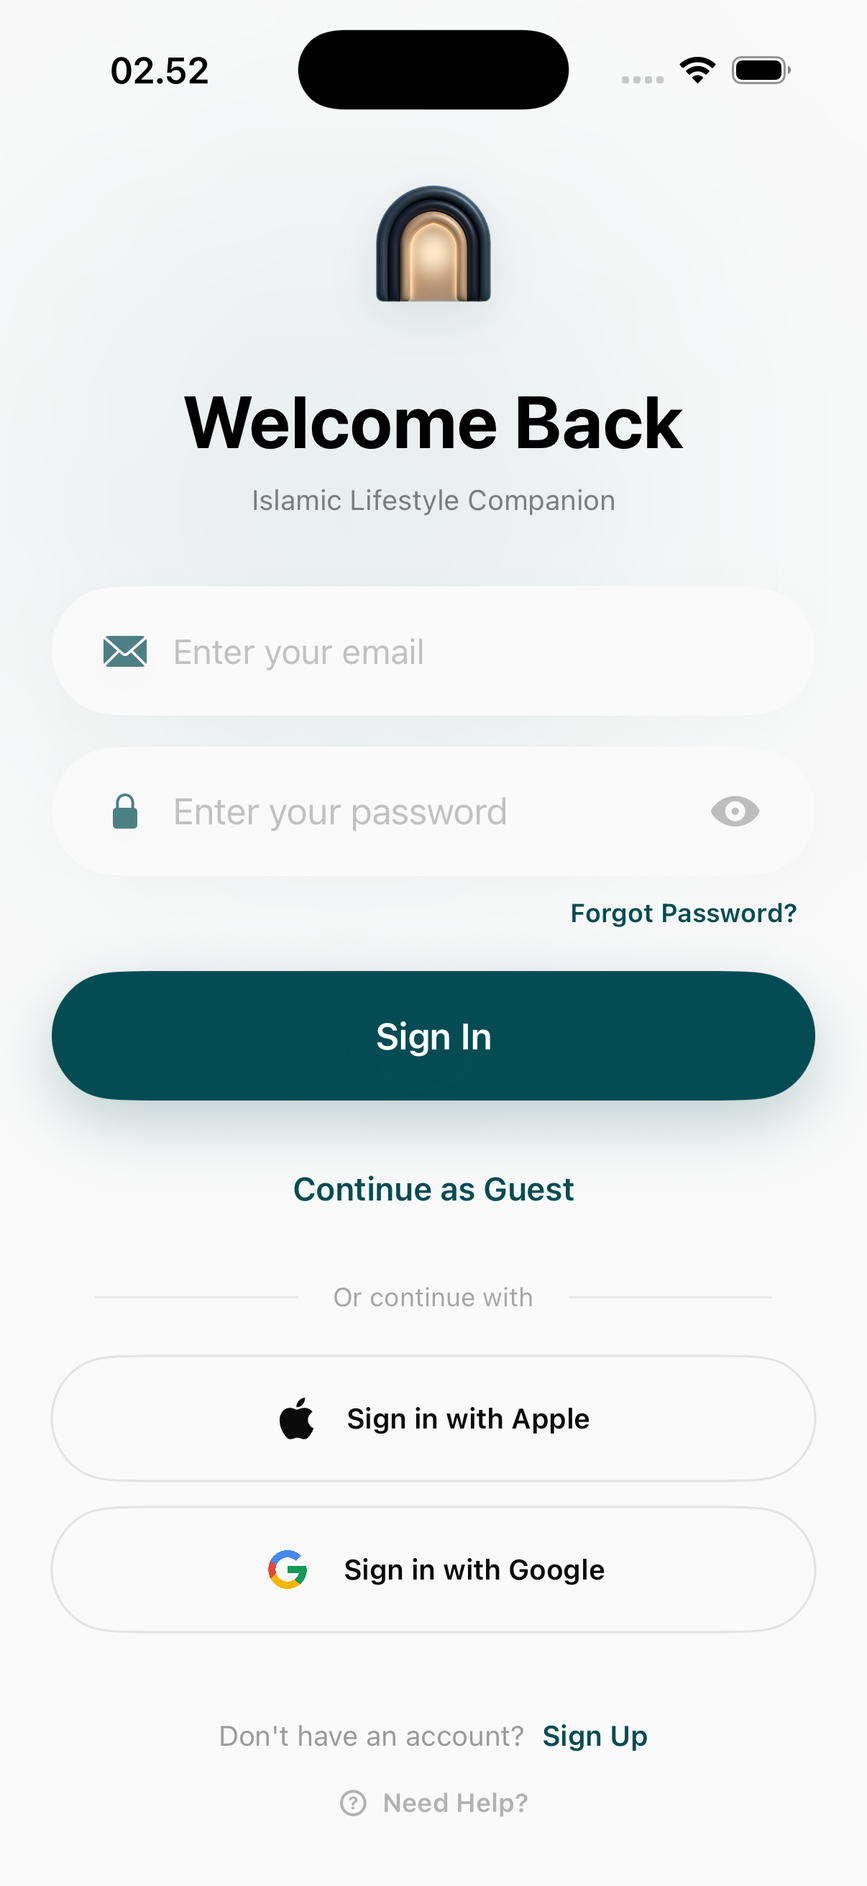
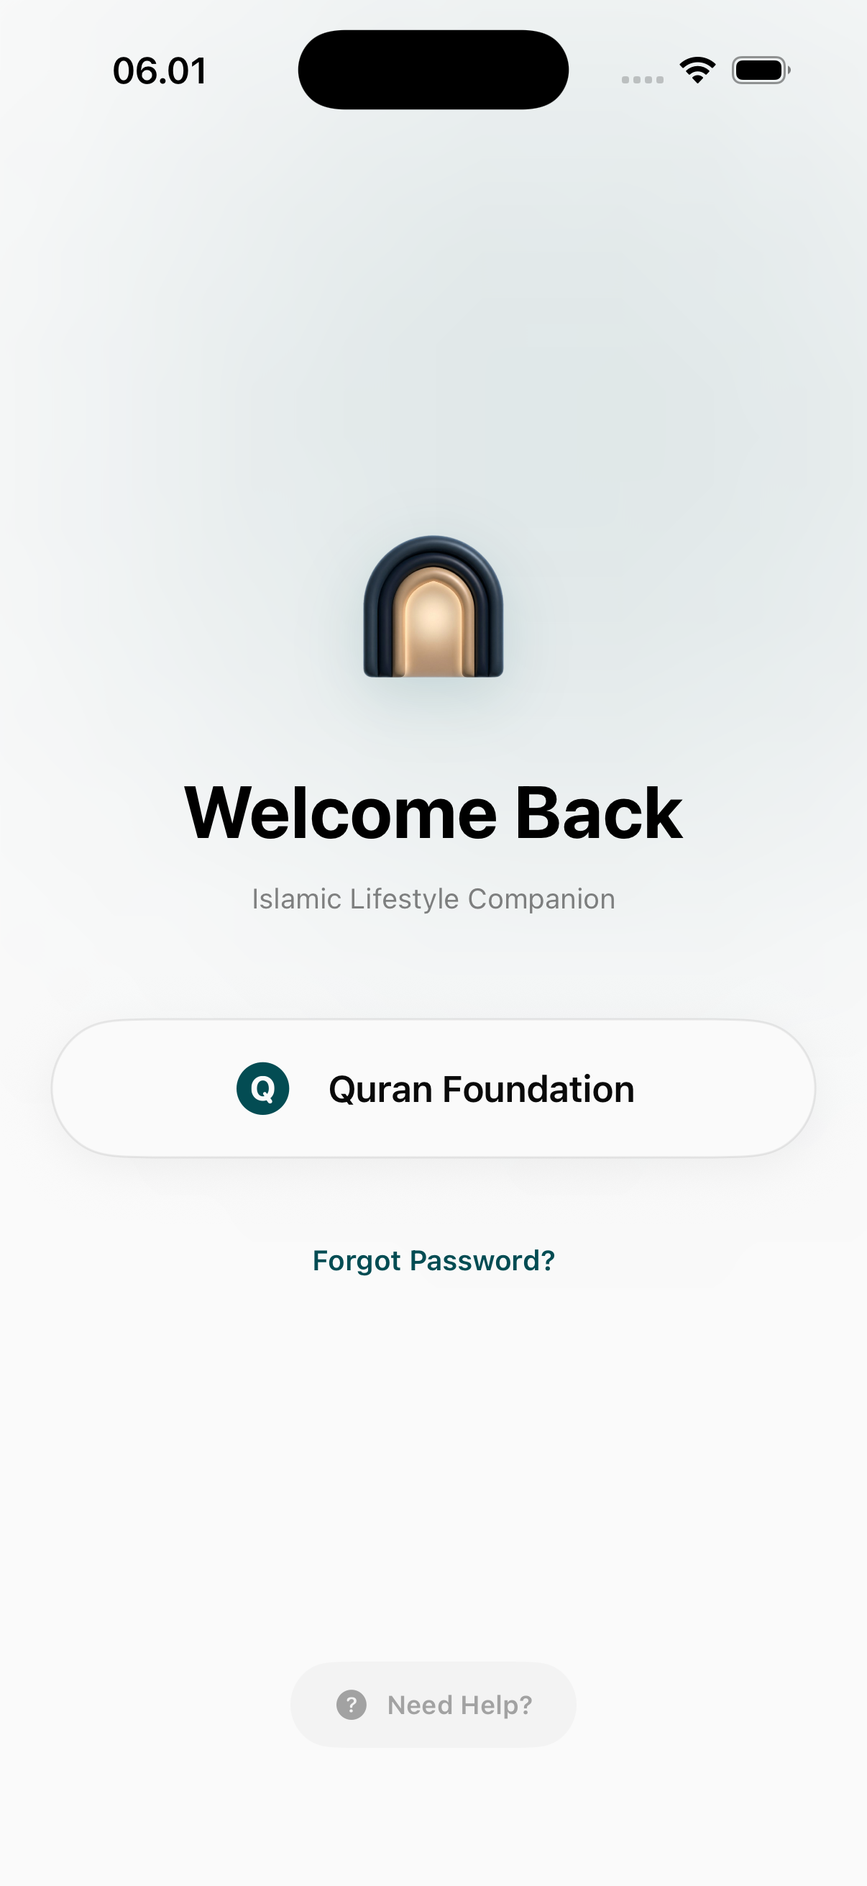
chore: update screenshot documentation with new assets and remove deprecated files

diff --git a/api/external/quran-foundation.md b/api/external/quran-foundation.md
@@ -1,95 +1,78 @@
-# Quran Foundation API (v4) Integration
+# Quran Foundation Integration Specification
 
-This document details the external API endpoints provided by the [Quran Foundation](https://quran.foundation/docs) and used within the Hira application to source Quranic text, translations, and audio assets.
-
-**Base URL**: `https://apis.quran.foundation/content/api/v4`
+This document details the active integration between Hira and the Quran Foundation ecosystem, focusing exclusively on the services and endpoints utilized in the core application.
 
 ---
 
-## 1. Core Quran Content
+## 1. Network Architecture
 
-### List All Chapters (Surahs)
-Fetches the metadata for all 114 Surahs.
-- **Endpoint**: `GET /chapters`
-- **Used in**: [`SurahListView.swift`](https://github.com/teamhira/hira-swiftui/blob/quran-foundation/Apps/iOSApp/Features/Quran/Views/SurahListView.swift)
-- **Query Parameters**:
-  - `language` (string): ISO code (e.g., `en`, `id`) to localize chapter names.
+Hira routes requests through two secondary base URLs managed by [`FoundationClient`](../../Hira/Shared/Data/Network/FoundationClient.swift):
 
-### Chapter Information
-Retrieves historical background and revelation context.
-- **Endpoint**: `GET /chapters/{chapter_id}/info`
-- **Used in**: [`SurahInfoSheet.swift`](https://github.com/teamhira/hira-swiftui/blob/quran-foundation/Apps/iOSApp/Features/Quran/Views/Subviews/SurahInfoSheet.swift)
-- **Query Parameters**:
-  - `language` (string): Localization for the info text.
+| Service | Base URL | Usage |
+| :--- | :--- | :--- |
+| **Content v4** | `https://apis.quran.foundation/content/api/v4` | Public scriptures, audio manifest, and resource lists. |
+| **User Data v1** | `https://apis.quran.foundation/auth` | Synchronized bookmarks, activity, and progress. |
 
-### Verses by Chapter
-Fetches verses for a specific chapter. Used for the primary reading list.
-- **Endpoint**: `GET /verses/by_chapter/{chapter_id}`
-- **Used in**: [`QuranAyahListView.swift`](https://github.com/teamhira/hira-swiftui/blob/quran-foundation/Apps/iOSApp/Features/Quran/Views/Subviews/QuranAyahListView.swift)
-- **Query Parameters**:
-  - `language` (string): General content language.
-  - `words` (boolean): `true` to include word-by-word data (required for Tajweed and Word-Audio).
-  - `translations` (int array): IDs of the translations to include (e.g., `85` for Abdel Haleem).
-  - `audio` (int): ID of the reciter for verse-level audio association.
-  - `page` (int): Page number (defaults to 1).
-  - `per_page` (int): Number of verses (Hira typically uses `300` to fetch whole chapters).
-
-### Verses by Page (Mushaf Mode)
-Fetches verses that appear on a specific physical page of the Madinah Mushaf.
-- **Endpoint**: `GET /verses/by_page/{page_number}`
-- **Used in**: [`QuranMushafView.swift`](https://github.com/teamhira/hira-swiftui/blob/quran-foundation/Apps/iOSApp/Features/Quran/Views/Subviews/QuranMushafView.swift)
-- **Query Parameters**: Same as *Verses by Chapter*.
+### Global Headers
+All authenticated requests (User Data v1) automatically include:
+- `Authorization: Bearer [TOKEN]`
+- `x-auth-token: [TOKEN]`
+- `x-client-id: [CLIENT_ID]`
+- `x-timezone: [TIMEZONE]` (Required for correct activity-day day calculation)
 
 ---
 
-## 2. Structural Navigation
+## 2. API Reference (Core Content v4)
 
-### List All Juzs
-Provides the mapping of the 30 Juz divisions.
-- **Endpoint**: `GET /juzs`
-- **Used in**: [`QuranJuzListView.swift`](https://github.com/teamhira/hira-swiftui/blob/quran-foundation/Apps/iOSApp/Features/Quran/Views/QuranJuzListView.swift)
+### 📖 Reading & Resources
+| Endpoint | Method | Description | Key Parameters |
+| :--- | :--- | :--- | :--- |
+| `/chapters` | `GET` | Fetch all 114 Surahs. | `language` |
+| `/chapters/{id}/info` | `GET` | Historical context of a Surah. | `language` |
+| `/verses/by_chapter/{id}` | `GET` | Main reading content for a Surah. | `words=true`, `translations`, `audio`, `per_page=300` |
+| `/verses/by_page/{page}` | `GET` | Verses appearing on a specific Mushaf page. | `words=true`, `translations` |
+| `/juzs` | `GET` | Metadata for the 30 structural divisions. | N/A |
+| `/resources/recitations` | `GET` | List of available reciters. | `language` |
+| `/resources/translations` | `GET` | List of available translation resources. | `language` |
+| `/resources/tafsirs` | `GET` | List of available tafsir resources. | `language` |
 
----
-
-## 3. Resource & Settings Discovery
-
-### Available Languages
-Populates the language selection interface for documentation and UI.
-- **Endpoint**: `GET /resources/languages`
-- **Used in**: [`QuranLanguageSelector.swift`](https://github.com/teamhira/hira-swiftui/blob/quran-foundation/Apps/iOSApp/Features/Quran/Views/Subviews/QuranLanguageSelector.swift)
-
-### Translation Resources
-Lists available translations for a given language.
-- **Endpoint**: `GET /resources/translations`
-- **Query Parameters**:
-  - `language` (string): Filter translations by language.
-
-### Tafsir Resources
-Lists available exegesis resources.
-- **Endpoint**: `GET /resources/tafsirs`
-- **Query Parameters**:
-  - `language` (string): Filter tafsirs by language.
-
-### Recitation Resources
-Lists available world-renowned reciters.
-- **Endpoint**: `GET /resources/recitations`
-- **Used in**: [`QuranResourceSelector.swift`](https://github.com/teamhira/hira-swiftui/blob/quran-foundation/Apps/iOSApp/Features/Quran/Views/Subviews/QuranResourceSelector.swift)
+### 🎵 Audio & Timestamps
+| Endpoint | Method | Description | Key Parameters |
+| :--- | :--- | :--- | :--- |
+| `/chapters/{id}/audio_files` | `GET` | Audio manifest for a specific surah. | `recitation_id`, `segments=true` (for timestamps) |
 
 ---
 
-## 4. Audio & Precision Timing
+## 3. API Reference (User Data v1)
 
-### Chapter Audio Files
-Retrieves audio manifest with precise word-level and verse-level timestamps.
-- **Endpoint**: `GET /chapters/{chapter_id}/audio_files`
-- **Used in**: [`QuranViewModel.swift`](https://github.com/teamhira/hira-swiftui/blob/quran-foundation/Apps/iOSApp/Features/Quran/QuranViewModel.swift) (Auto-scroll/Teleprompter logic).
-- **Query Parameters**:
-  - `recitation_id` (int): The selected reciter's ID.
-  - `segments` (boolean): `true` to include word-level timing (essential for word-level highlighting).
+### 🏷 Bookmarks & Last Read
+| Endpoint | Method | Description | Payload / Params |
+| :--- | :--- | :--- | :--- |
+| `/v1/bookmarks` | `GET` | Fetch user's synchronized bookmarks. | `mushafId`, `first`, `after` |
+| `/v1/bookmarks` | `POST` | Create a bookmark or "Last Read" position. | `type`, `key`, `verseNumber`, `isReading`, `mushafId` |
+| `/v1/bookmarks/{id}` | `DELETE` | Permanently remove a specific bookmark. | Path Variable: `id` |
+| `/v1/bookmarks/ayahs-range`| `GET` | Check bookmark status for a range of ayahs. | `chapterNumber`, `rangeStartAyahNumber`, `rangeEndAyahNumber` |
+
+### ⚡ Tracking & Progress
+| Endpoint | Method | Description | Payload / Params |
+| :--- | :--- | :--- | :--- |
+| `/v1/reading-sessions`| `GET` | Fetch user reading session history. | `first`, `after` |
+| `/v1/reading-sessions`| `POST` | Log active reading presence. | `chapterNumber`, `verseNumber` |
+| `/v1/activity-days` | `GET` | Fetch historical activity and heat-map data. | `from`, `to`, `type="QURAN"` |
+| `/v1/activity-days` | `POST` | Post incremental reading time and ranges. | `type`, `seconds`, `ranges` (JSON Array), `mushafId`, `date` |
 
 ---
 
-## Summary of Usage Logic
-1. **Initial Load**: App calls `/chapters` to build the navigation list.
-2. **Reading View**: Calls `/verses/by_chapter` or `/verses/by_page` with `words=true` to enable Tajweed rendering.
-3. **Teleprompter**: Calls `/audio_files?segments=true` to calculate scroll duration per verse based on `timestamp_from` and `timestamp_to`.
+## 4. Technical Implementation Constants
+
+- **Range Limit**: Individual `ayahs-range` checks must not exceed **30 ayahs**. Repository handles chunking automatically.
+- **Reading Session Debounce**: Tracking begins after **15 seconds**; updates are posted with a **2 second** debounce.
+- **Activity Persistence**: `ranges` post payload must be a **JSON Array of Strings** (e.g., `["1:1-1:7"]`).
+- **Timezone Header**: `x-timezone` is mandatory for `/v1/activity-days` to maintain accurate streaks.
+
+---
+
+## Reference Map
+- **Networking Core**: [`FoundationClient.swift`](../../Hira/Shared/Data/Network/FoundationClient.swift)
+- **Endpoints Logic**: [`FoundationEndpoints.swift`](../../Hira/Shared/Core/Constants/FoundationEndpoints.swift)
+- **ViewModel Orchestration**: [`QuranViewModel.swift`](../../Hira/Apps/iOSApp/Features/Quran/QuranViewModel.swift)

diff --git a/screenshot/README.md b/screenshot/README.md
@@ -7,7 +7,7 @@ This directory contains a comprehensive collection of screenshots and UI/UX docu
 ## 🕋 Core Spiritual Features
 | Feature | Screenshot Inventory (Click to View) | Documentation |
 | :--- | :--- | :--- |
-| **Quran** | [`quran-surah-list.png`](quran/quran-surah-list.png), [`quran-search.png`](quran/quran-search.png), [`quran-mushaf.png`](quran/quran-surah-detail-mushaf-view.png), [`quran-audio.png`](quran/quran-surah-detail-audio.png), [`quran-juz.png`](quran/quran-juz.png), [`quran-topic.png`](quran/quran-topic.png) | [View Details](quran/README.md) |
+| **Quran** | [`quran-surah-list.png`](quran/quran-surah-list.png), [`quran-search.png`](quran/quran-search.png), [`quran-mushaf.png`](quran/quran-surah-detail-mushaf-view.png), [`quran-audio.png`](quran/quran-surah-detail-audio.png), [`quran-juz-list.png`](quran/quran-juz-list.png), [`quran-topic.png`](quran/quran-topic.png) | [View Details](quran/README.md) |
 | **Prayer Times** | [`prayer-times.png`](prayer-times/prayer-times.png) | [View Details](prayer-times/README.md) |
 | **Qibla** | [`qibla.png`](qibla/qibla.png), [`qibla-map-extend.png`](qibla/qibla-map-extend.png) | [View Details](qibla/README.md) |
 | **Dua** | [`dua.png`](dua/dua.png), [`dua-list.png`](dua/dua-list.png), [`dua-detail.png`](dua/dua-detail.png) | [View Details](dua/README.md) |
@@ -26,8 +26,8 @@ This directory contains a comprehensive collection of screenshots and UI/UX docu
 ## 🤝 Community & Utility
 | Feature | Screenshot Inventory (Click to View) | Documentation |
 | :--- | :--- | :--- |
-| **Mosques** | [`mosques-1.png`](mosques/mosques-1.png), [`mosques-2.png`](mosques/mosques-2.png) | [View Details](mosques/README.md) |
-| **Halal** | [`halal-food.png`](halal/halal-food.png), [`halal-food-barcode.png`](halal/halal-food-barcode.png), [`halal-place.png`](halal/halal-place.png) | [View Details](halal/README.md) |
+| **Mosques** | [`mosques.png`](mosques/mosques.png), [`mosques-detail.png`](mosques/mosques-detail.png) | [View Details](mosques/README.md) |
+| **Halal** | [`halal-food.png`](halal/halal-food.png), [`halal-food-bardcode.png`](halal/halal-food-bardcode.png), [`halal-place.png`](halal/halal-place.png) | [View Details](halal/README.md) |
 | **Zakat** | [`zakat-fitrah.png`](zakat/zakat-fitrah.png), [`zakat-profession.png`](zakat/zakat-profession.png), [`zakat-gold-silver.png`](zakat/zakat-gold-silver.png), [`zakat-savings.png`](zakat/zakat-savings.png) | [View Details](zakat/README.md) |
 | **Sadaqah** | [`sadaqah.png`](sadaqah/sadaqah.png), [`sadaqah-campaign.png`](sadaqah/sadaqah-campaign.png), [`sadaqah-physical-1.png`](sadaqah/sadaqah-physical-1.png) | [View Details](sadaqah/README.md) |
 | **Charity** | [`charity-1.png`](charity/charity-1.png), [`charity-2.png`](charity/charity-2.png), [`charity-search.png`](charity/charity-search.png) | [View Details](charity/README.md) |
@@ -47,7 +47,7 @@ This directory contains a comprehensive collection of screenshots and UI/UX docu
 | :--- | :--- | :--- |
 | **Onboarding** | [`onboarding-landing.png`](onboarding/onboarding-landing.png), [`onboarding-quran.png`](onboarding/onboarding-quran.png), [`onboarding-final.png`](onboarding/onboarding-final.png) | [View Details](onboarding/README.md) |
 | **Splash** | [`splash.png`](splash/splash.png), [`launch.png`](splash/launch.png) | [View Details](splash/README.md) |
-| **Auth** | [`login.png`](auth/login.png), [`register.png`](auth/register.png), [`forgot-password.png`](auth/forgot-password.png) | [View Details](auth/README.md) |
+| **Auth** | [`login.png`](auth/login.png) | [View Details](auth/README.md) |
 | **Profile** | [`profile.png`](profile/profile.png), [`edit-profile.png`](profile/edit-profile.png), [`app-theme.png`](profile/app-theme.png) | [View Details](profile/README.md) |
 | **Calendar** | [`calendar.png`](calendar/calendar.png) | [View Details](calendar/README.md) |
 
@@ -56,11 +56,14 @@ This directory contains a comprehensive collection of screenshots and UI/UX docu
 ## 📂 Exhaustive File List
 | Feature | Complete Gallery (Internal Paths) |
 | :--- | :--- |
-| **Quran** | [`quran-surah-detail-mushaf-view.png`](quran/quran-surah-detail-mushaf-view.png), [`quran-juz-surah-list.png`](quran/quran-juz-surah-list.png), [`quran-surah-list.png`](quran/quran-surah-list.png), [`quran-surah-detail-audio.png`](quran/quran-surah-detail-audio.png), [`quran-juz.png`](quran/quran-juz.png), [`quran-topic.png`](quran/quran-topic.png), [`quran-surah-detail.png`](quran/quran-surah-detail.png), [`quran-history.png`](quran/quran-history.png), [`quran-bookmark.png`](quran/quran-bookmark.png), [`quran-daily.png`](quran/quran-daily.png), [`quran-search.png`](quran/quran-search.png), [`quran-surah-information.png`](quran/quran-surah-information.png), [`quran-surah-detail-ayah-options.png`](quran/quran-surah-detail-ayah-options.png), [`quran-surah-detail-audio-expand.png`](quran/quran-surah-detail-audio-expand.png) |
+| **Quran** | [`quran-surah-detail-mushaf-view.png`](quran/quran-surah-detail-mushaf-view.png), [`quran-juz-surah-list.png`](quran/quran-juz-surah-list.png), [`quran-surah-list.png`](quran/quran-surah-list.png), [`quran-surah-detail-audio.png`](quran/quran-surah-detail-audio.png), [`quran-juz-list.png`](quran/quran-juz-list.png), [`quran-topic.png`](quran/quran-topic.png), [`quran-surah-detail.png`](quran/quran-surah-detail.png), [`quran-history-list.png`](quran/quran-history-list.png), [`quran-bookmark-list.png`](quran/quran-bookmark-list.png), [`quran-daily.png`](quran/quran-daily.png), [`quran-search.png`](quran/quran-search.png), [`quran-surah-information.png`](quran/quran-surah-information.png), [`quran-surah-detail-ayah-options.png`](quran/quran-surah-detail-ayah-options.png), [`quran-surah-detail-audio-expand.png`](quran/quran-surah-detail-audio-expand.png) |
+| **Mosques** | [`mosques.png`](mosques/mosques.png), [`mosques-detail.png`](mosques/mosques-detail.png), [`mosques-expand.png`](mosques/mosques-expand.png) |
+| **Halal** | [`halal-food.png`](halal/halal-food.png), [`halal-food-detail.png`](halal/halal-food-detail.png), [`halal-food-bardcode.png`](halal/halal-food-bardcode.png), [`halal-food-ar.png`](halal/halal-food-ar.png), [`halal-place.png`](halal/halal-place.png), [`halal-place-detail.png`](halal/halal-place-detail.png) |
 | **Hijrah** | [`hijrah-dashboard-1.png`](hijrah/hijrah-dashboard-1.png), [`hijrah-dashboard-2.png`](hijrah/hijrah-dashboard-2.png), [`hijrah-dashboard-pemula.png`](hijrah/hijrah-dashboard-pemula.png), [`hijrah-mission-quiz.png`](hijrah/hijrah-mission-quiz.png), [`hijrah-mission-video.png`](hijrah/hijrah-mission-video.png), [`hijrah-mission-knowledge.png`](hijrah/hijrah-mission-knowledge.png), [`hijrah-mission-timer-pemula.png`](hijrah/hijrah-mission-timer-pemula.png), [`hijrah-achievement-list.png`](hijrah/hijrah-achievement-list.png), [`hijrah-achievement-detail-1.png`](hijrah/hijrah-achievement-detail-1.png), [`hijrah-step-1.png`](hijrah/hijrah-step-1.png), [`hijrah-step-2.png`](hijrah/hijrah-step-2.png), [`hijrah-step-3.png`](hijrah/hijrah-step-3.png), [`hijrah-step-4.png`](hijrah/hijrah-step-4.png) |
 | **Zakat** | [`zakat-1.png`](zakat/zakat-1.png), [`zakat-2.png`](zakat/zakat-2.png), [`zakat-fitrah.png`](zakat/zakat-fitrah.png), [`zakat-profession.png`](zakat/zakat-profession.png), [`zakat-gold-silver.png`](zakat/zakat-gold-silver.png), [`zakat-savings.png`](zakat/zakat-savings.png), [`zakat-trade.png`](zakat/zakat-trade.png), [`zakat-agriculture.png`](zakat/zakat-agriculture.png), [`zakat-livestock.png`](zakat/zakat-livestock.png), [`zakat-mining-rikaz.png`](zakat/zakat-mining-rikaz.png), [`zakat-information-1.png`](zakat/zakat-information-1.png), [`zakat-information-2.png`](zakat/zakat-information-2.png) |
 | **Tasbih** | [`tasbih-dzikir-daily.png`](tasbih/tasbih-dzikir-daily.png), [`tasbih-dzikir-all.png`](tasbih/tasbih-dzikir-all.png), [`tasbih-dzikir-all-check.png`](tasbih/tasbih-dzikir-all-check.png), [`tasbih-dzikir-check-list.png`](tasbih/tasbih-dzikir-check-list.png), [`tasbih-dzikir-check-success.png`](tasbih/tasbih-dzikir-check-success.png), [`tasbih-dzikir-with-check.png`](tasbih/tasbih-dzikir-with-check.png) |
 | **Home** | [`home-1.png`](home/home-1.png), [`home-2.png`](home/home-2.png), [`home-search-1.png`](home/home-search-1.png), [`home-search-2.png`](home/home-search-2.png), [`features-more-1.png`](home/features-more-1.png), [`features-more-2.png`](home/features-more-2.png), [`features-more-3.png`](home/features-more-3.png), [`features-more-edit.png`](home/features-more-edit.png) |
+| **Auth** | [`login.png`](auth/login.png) |
 
 > [!TIP]
 > Click any filename to open the high-resolution screenshot directly in your browser or editor.

diff --git a/screenshot/auth/README.md b/screenshot/auth/README.md
@@ -1,30 +1,17 @@
 # Authentication Page
 
-The authentication module handles user identification and security. It provides a seamless entry flow for existing users, new registrations, and a recovery mechanism for lost credentials.
+The authentication module handles user identification and security through the Quran Foundation ecosystem. It provides a streamlined entry flow for users to access their synced data across platforms.
 
 ## User Interfaces
 
 ### 1. Login Screen
-The login interface is optimized for speed and security. It supports email/password authentication alongside social login options (Apple and Google) and a guest mode.
-- **Fields**: Email and Password with visibility toggles.
-- **Actions**: Login button, social login buttons, and a link to the registration flow.
-- **Security**: "Forgot Password?" link is prominently placed below the password field.
+The login interface is focused on a unified authentication experience via the Quran Foundation OAuth2 service.
+- **Main Action**: "Login with Quran Foundation" button triggers the secure web-based OAuth flow.
+- **Account Recovery**: "Forgot password?" link redirects to the official Quran Foundation password recovery page.
+- **Support**: "Need help?" provides guidance for users facing technical difficulties.
 <img src="login.png" alt="Login Screen" width="250" />
 
-### 2. Registration Screen
-The registration flow captures essential user information to create a new Hira account. 
-- **Fields**: Full Name, Email, and Password.
-- **Agreement**: Direct links to the Terms and Privacy Policy ensure legal compliance and user informed consent.
-- **Social Options**: Allows users to create an account directly using their social identities.
-<img src="register.png" alt="Registration Screen" width="250" />
-
-### 3. Forgot Password
-A dedicated recovery screen for password resets.
-- **Process**: Users enter their registered email to receive a reset link or verification code.
-- **Simplicity**: Focuses solely on the recovery task to reduce user friction during a potentially stressful state.
-<img src="forgot-password.png" alt="Forgot Password" width="250" />
-
 ## Interaction Flow
-1. **Selection**: User chooses between Login or Register from the entry screen.
-2. **Verification**: Inputs are validated in real-time for format correctness (e.g., email syntax).
-3. **Success**: Upon successful authentication, the user is transitioned to the main Home dashboard.
+1. **OAuth Initialization**: User clicks the Quran Foundation login button.
+2. **Secure Verification**: Redirection to the official Quran Foundation login portal for secure credential handling.
+3. **Success**: Upon successful authorization, the user is issued a token and transitioned to the main dashboard.

diff --git a/screenshot/mosques/README.md b/screenshot/mosques/README.md
@@ -9,14 +9,19 @@ A localized interface for finding the nearest mosques.
 - **Geographic Search**: Uses the device's GPS to plot nearby mosques on a map.
 - **Distance-Sorted List**: A list view showing mosques ordered by proximity.
 - **Quick Navigation**: Integration with external map providers (Google Maps, Apple Maps) for turn-by-turn directions.
-<img src="mosques-1.png" alt="Mosque List View" width="250" />
+<table>
+  <tr>
+    <td><img src="mosques.png" alt="Mosque List View" width="250" /></td>
+    <td><img src="mosques-expand.png" alt="Expanded Map/List View" width="250" /></td>
+  </tr>
+</table>
 
 ### 2. Mosque Detailed Information
 In-depth data to help users choose a place of worship that meets their specific needs.
 - **Facility Indicators**: Icons showing availability of Wudu areas, female-only spaces, and accessibility features.
 - **Service Schedule**: Information on Jummah prayer timings and other specialized services (e.g., classes, counseling).
 - **Community Ratings/Photos**: User-contributed content to provide real-world context.
-<img src="mosques-2.png" alt="Mosque Detailed Info" width="250" />
+<img src="mosques-detail.png" alt="Mosque Detailed Info" width="250" />
 
 ## Functional Utility
 - **Real-Time Availability**: Updates on current status (open/closed) based on prayer timings.

diff --git a/screenshot/halal/README.md b/screenshot/halal/README.md
@@ -19,13 +19,23 @@ A specialized AR-compatible interface for real-time product verification.
 Detailed breakdowns of scanned or searched food products.
 - **Halal Status Badge**: Clear, color-coded indicators (Green for Halal, Red for Haram).
 - **Ingredient Breakdown**: Analysis of potentially doubtful ingredients (Mashbooh).
-<img src="halal-food.png" alt="Product Details View" width="250" />
+<table>
+  <tr>
+    <td><img src="halal-food.png" alt="Product Summary View" width="250" /></td>
+    <td><img src="halal-food-detail.png" alt="Product Details Discovery" width="250" /></td>
+  </tr>
+</table>
 
 ### 3. Halal Places Discovery
 A localized search tool for finding Halal-certified or Muslim-friendly dining.
 - **Distance-Sorted List**: Highlights restaurants, cafes, and markets near the user's location.
 - **Certification Badges**: Displays the specific Halal authority that certified the establishment.
-<img src="halal-place.png" alt="Halal Places Discovery" width="250" />
+<table>
+  <tr>
+    <td><img src="halal-place.png" alt="Halal Places Discovery" width="250" /></td>
+    <td><img src="halal-place-detail.png" alt="Place Details View" width="250" /></td>
+  </tr>
+</table>
 
 ## Functional Value
 - **Doubt Management**: Helps users navigate complex global food markets with confidence.

diff --git a/screenshot/quran/README.md b/screenshot/quran/README.md
@@ -12,8 +12,8 @@ The initial screen serves as the launchpad for Quran study.
 <table>
   <tr>
     <td><img src="quran-surah-list.png" alt="Quran Discovery Display" width="250" /></td>
-    <td><img src="quran-history.png" alt="Quran History/Bookmarks" width="250" /></td>
-    <td><img src="quran-bookmark.png" alt="Quran Bookmark Details" width="250" /></td>
+    <td><img src="quran-history-list.png" alt="Quran History/Bookmarks" width="250" /></td>
+    <td><img src="quran-bookmark-list.png" alt="Quran Bookmark Details" width="250" /></td>
   </tr>
   <tr>
     <td><img src="quran-search.png" alt="Global Search" width="250" /></td>
@@ -29,7 +29,7 @@ Users can navigate the Quran through traditional structures.
 - **Topic Search**: Search ayahs based on thematic categories (e.g., Patience, Faith).
 <table>
   <tr>
-    <td><img src="quran-juz.png" alt="Juz Category View" width="250" /></td>
+    <td><img src="quran-juz-list.png" alt="Juz Category View" width="250" /></td>
     <td><img src="quran-juz-surah-list.png" alt="Surah List Categories" width="250" /></td>
     <td><img src="quran-topic.png" alt="Topic Categorization" width="250" /></td>
   </tr>
